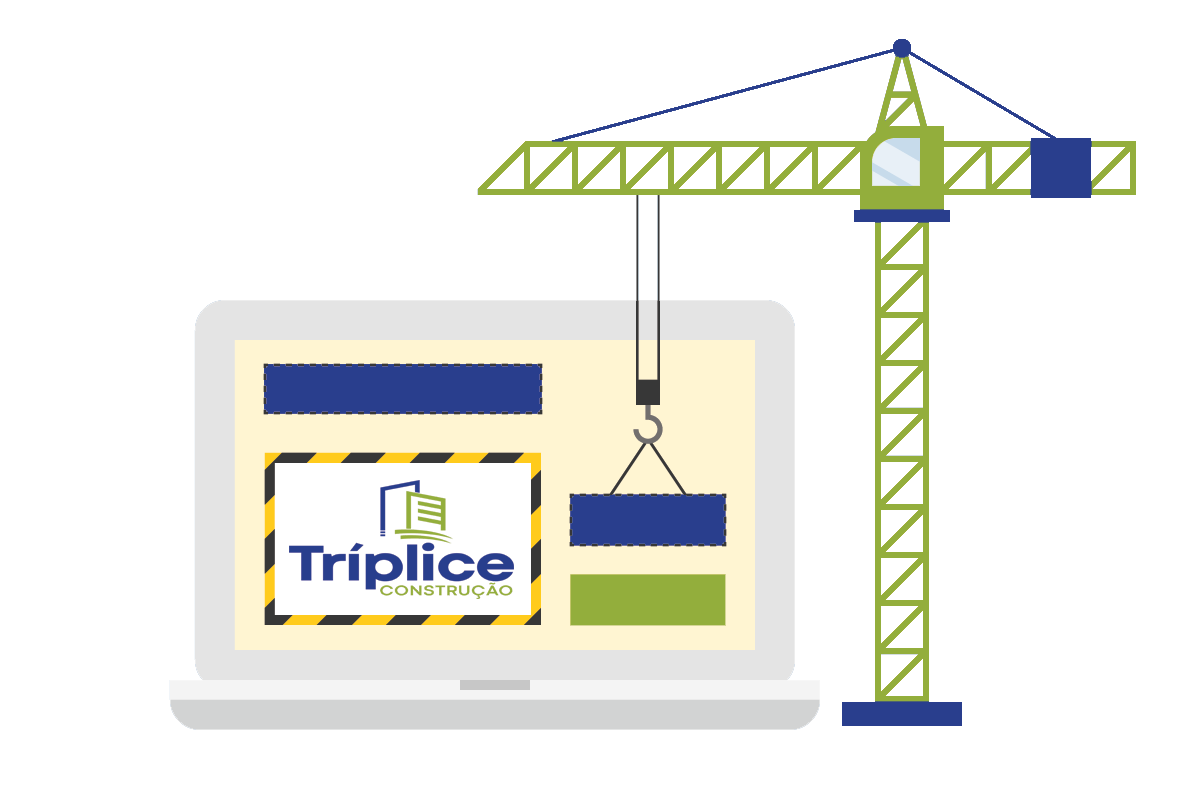
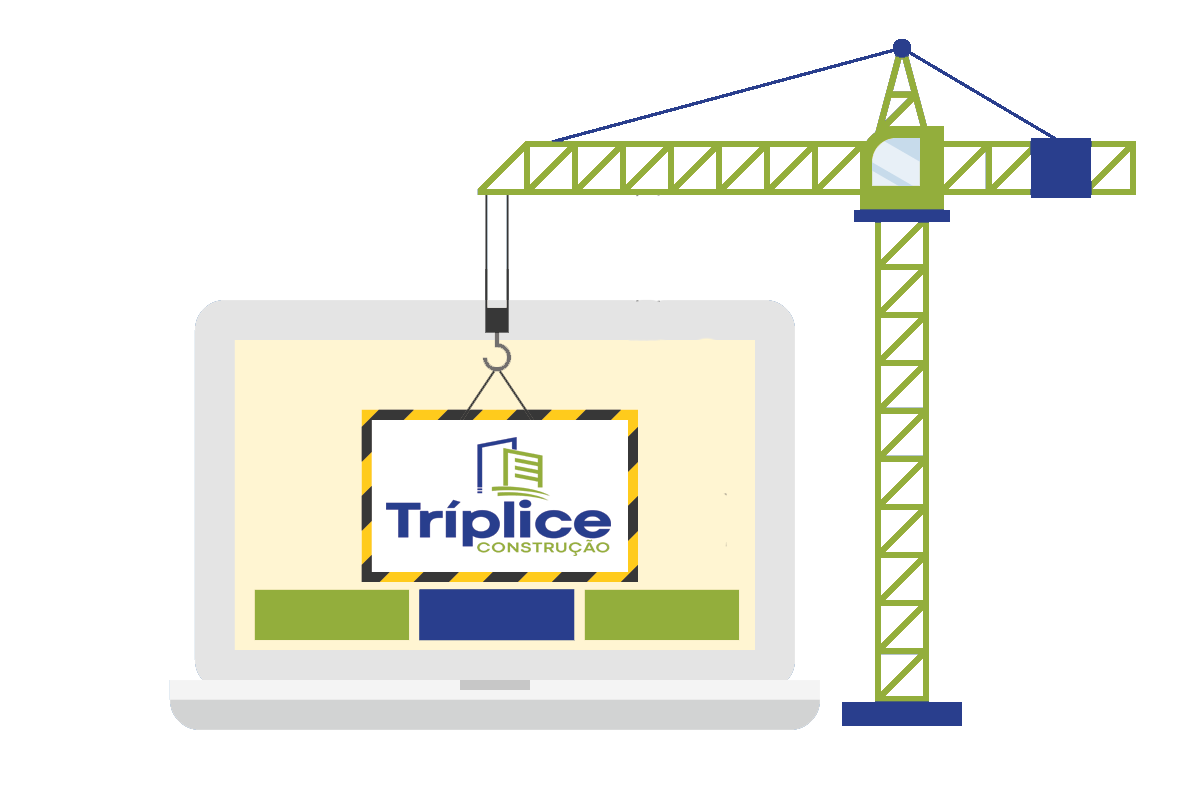
Ediçao do header e correção nas páinas de manutenção

Changed region(s): [[0.185, 0.25, 0.6167, 0.8125]]

diff --git a/css/style.css b/css/style.css
@@ -1,9 +1,6 @@
 /* Estilos Gerais */
-/*azul #293d8d;
-verde #95ae0b */
 body {
     font-family: Verdana, Geneva, Tahoma, sans-serif;
-
 }
 
 .recuo {
@@ -56,6 +53,8 @@ img {
     margin: 8px auto;
 }
 
+/* Fim dos Estilos Gerais */
+
 /* Header */
 .header {
     width: 100%;
@@ -67,8 +66,10 @@ img {
     background-size: 40%;
     background-repeat: no-repeat;
     z-index: 10;
+    -webkit-box-shadow: 0px 5px 6px 0px rgba(50, 50, 50, 0.59);
+    -moz-box-shadow: 0px 5px 6px 0px rgba(50, 50, 50, 0.59);
+    box-shadow: 0px 5px 6px 0px rgba(50, 50, 50, 0.59);
 }
-
 
 #logoheader {
     margin-top: 5px;
@@ -100,8 +101,10 @@ img {
 }
 
 .header_menu ul li a.menu_ativo {
-	color: #95ae0b;
+    color: #95ae0b;
 }
+
+/* Fim dos estilos da Header */
 
 /* introdução */
 
@@ -162,7 +165,7 @@ img {
 .sobre p {
     text-align: justify;
     font-size: 15px;
-    
+
 }
 
 .sobre_empresa {
@@ -173,12 +176,15 @@ img {
     margin-bottom: 35px;
 }
 
-.sobre_diretoria, .sobre_tecnico{
+.sobre_diretoria,
+.sobre_tecnico {
     margin-top: 30px;
     margin-bottom: 40px;
 }
 
-.sobre_empresa, .sobre_diretoria, .sobre_tecnico{
+.sobre_empresa,
+.sobre_diretoria,
+.sobre_tecnico {
     line-height: 22px;
 }
 

diff --git a/sobre.html b/sobre.html
@@ -12,6 +12,7 @@
     <link rel="stylesheet" href="./css/style.css">
     <link rel="stylesheet" href="./css/responsivo.css">
     <link href='https://unpkg.com/boxicons@2.0.7/css/boxicons.min.css' rel='stylesheet'>
+    <link rel="icon" type="image/png" sizes="32x32" href="./img/logo-oficial.png">
 
     <title>Tríplice Construção</title>
 </head>
@@ -28,8 +29,8 @@
                 <ul>
                     <li><a href="index.html">Home</a></li>
                     <li><a href="sobre.html" class="menu_ativo">Sobre</a></li>
-                    <li><a href="">Obras</a></li>
-                    <li><a href="contato.html">Contato</a></li>
+                    <li><a href="manutencao.html">Obras</a></li>
+                    <li><a href="manutencao.html">Contato</a></li>
 
                 </ul>
             </nav>

diff --git a/manutencao.html b/manutencao.html
@@ -13,6 +13,7 @@
     <link rel="stylesheet" href="./css/manutencao.css">
     <link rel="stylesheet" href="./css/responsivo.css">
     <link href='https://unpkg.com/boxicons@2.0.7/css/boxicons.min.css' rel='stylesheet'>
+    <link rel="icon" type="image/png" sizes="32x32" href="./img/logo-oficial.png">
 
     <title>Tríplice Construção</title>
 </head>

diff --git a/css/home.css b/css/home.css
@@ -61,8 +61,6 @@
     color: #2c4d84;
 }
 
-.video{}
-
 /* Serviços */
 
 .servicos{
